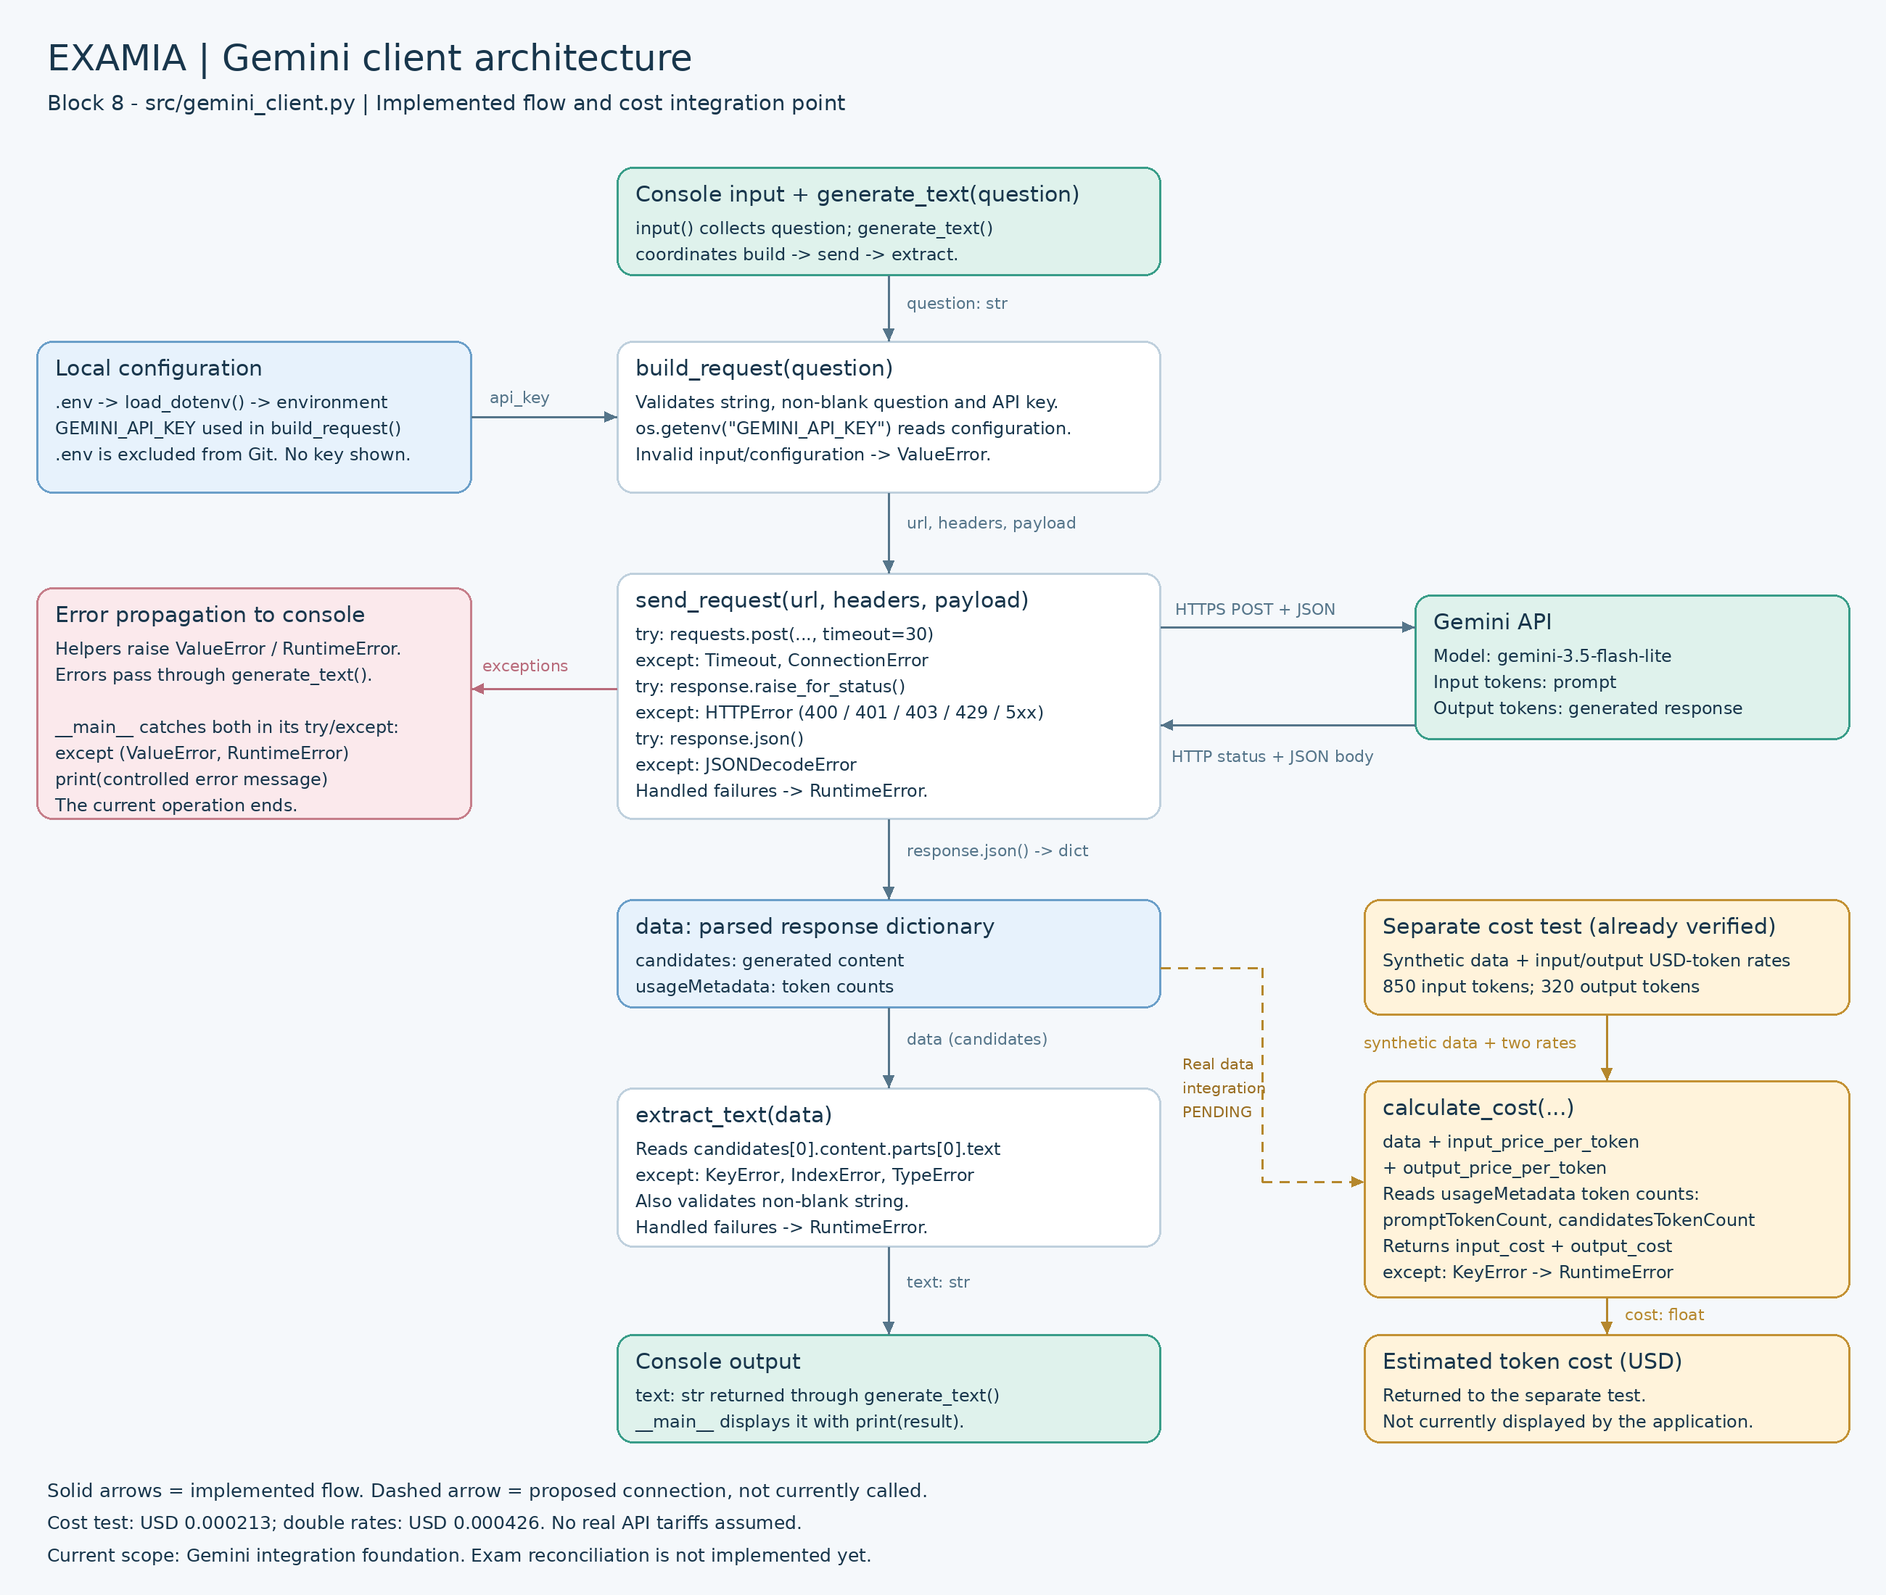
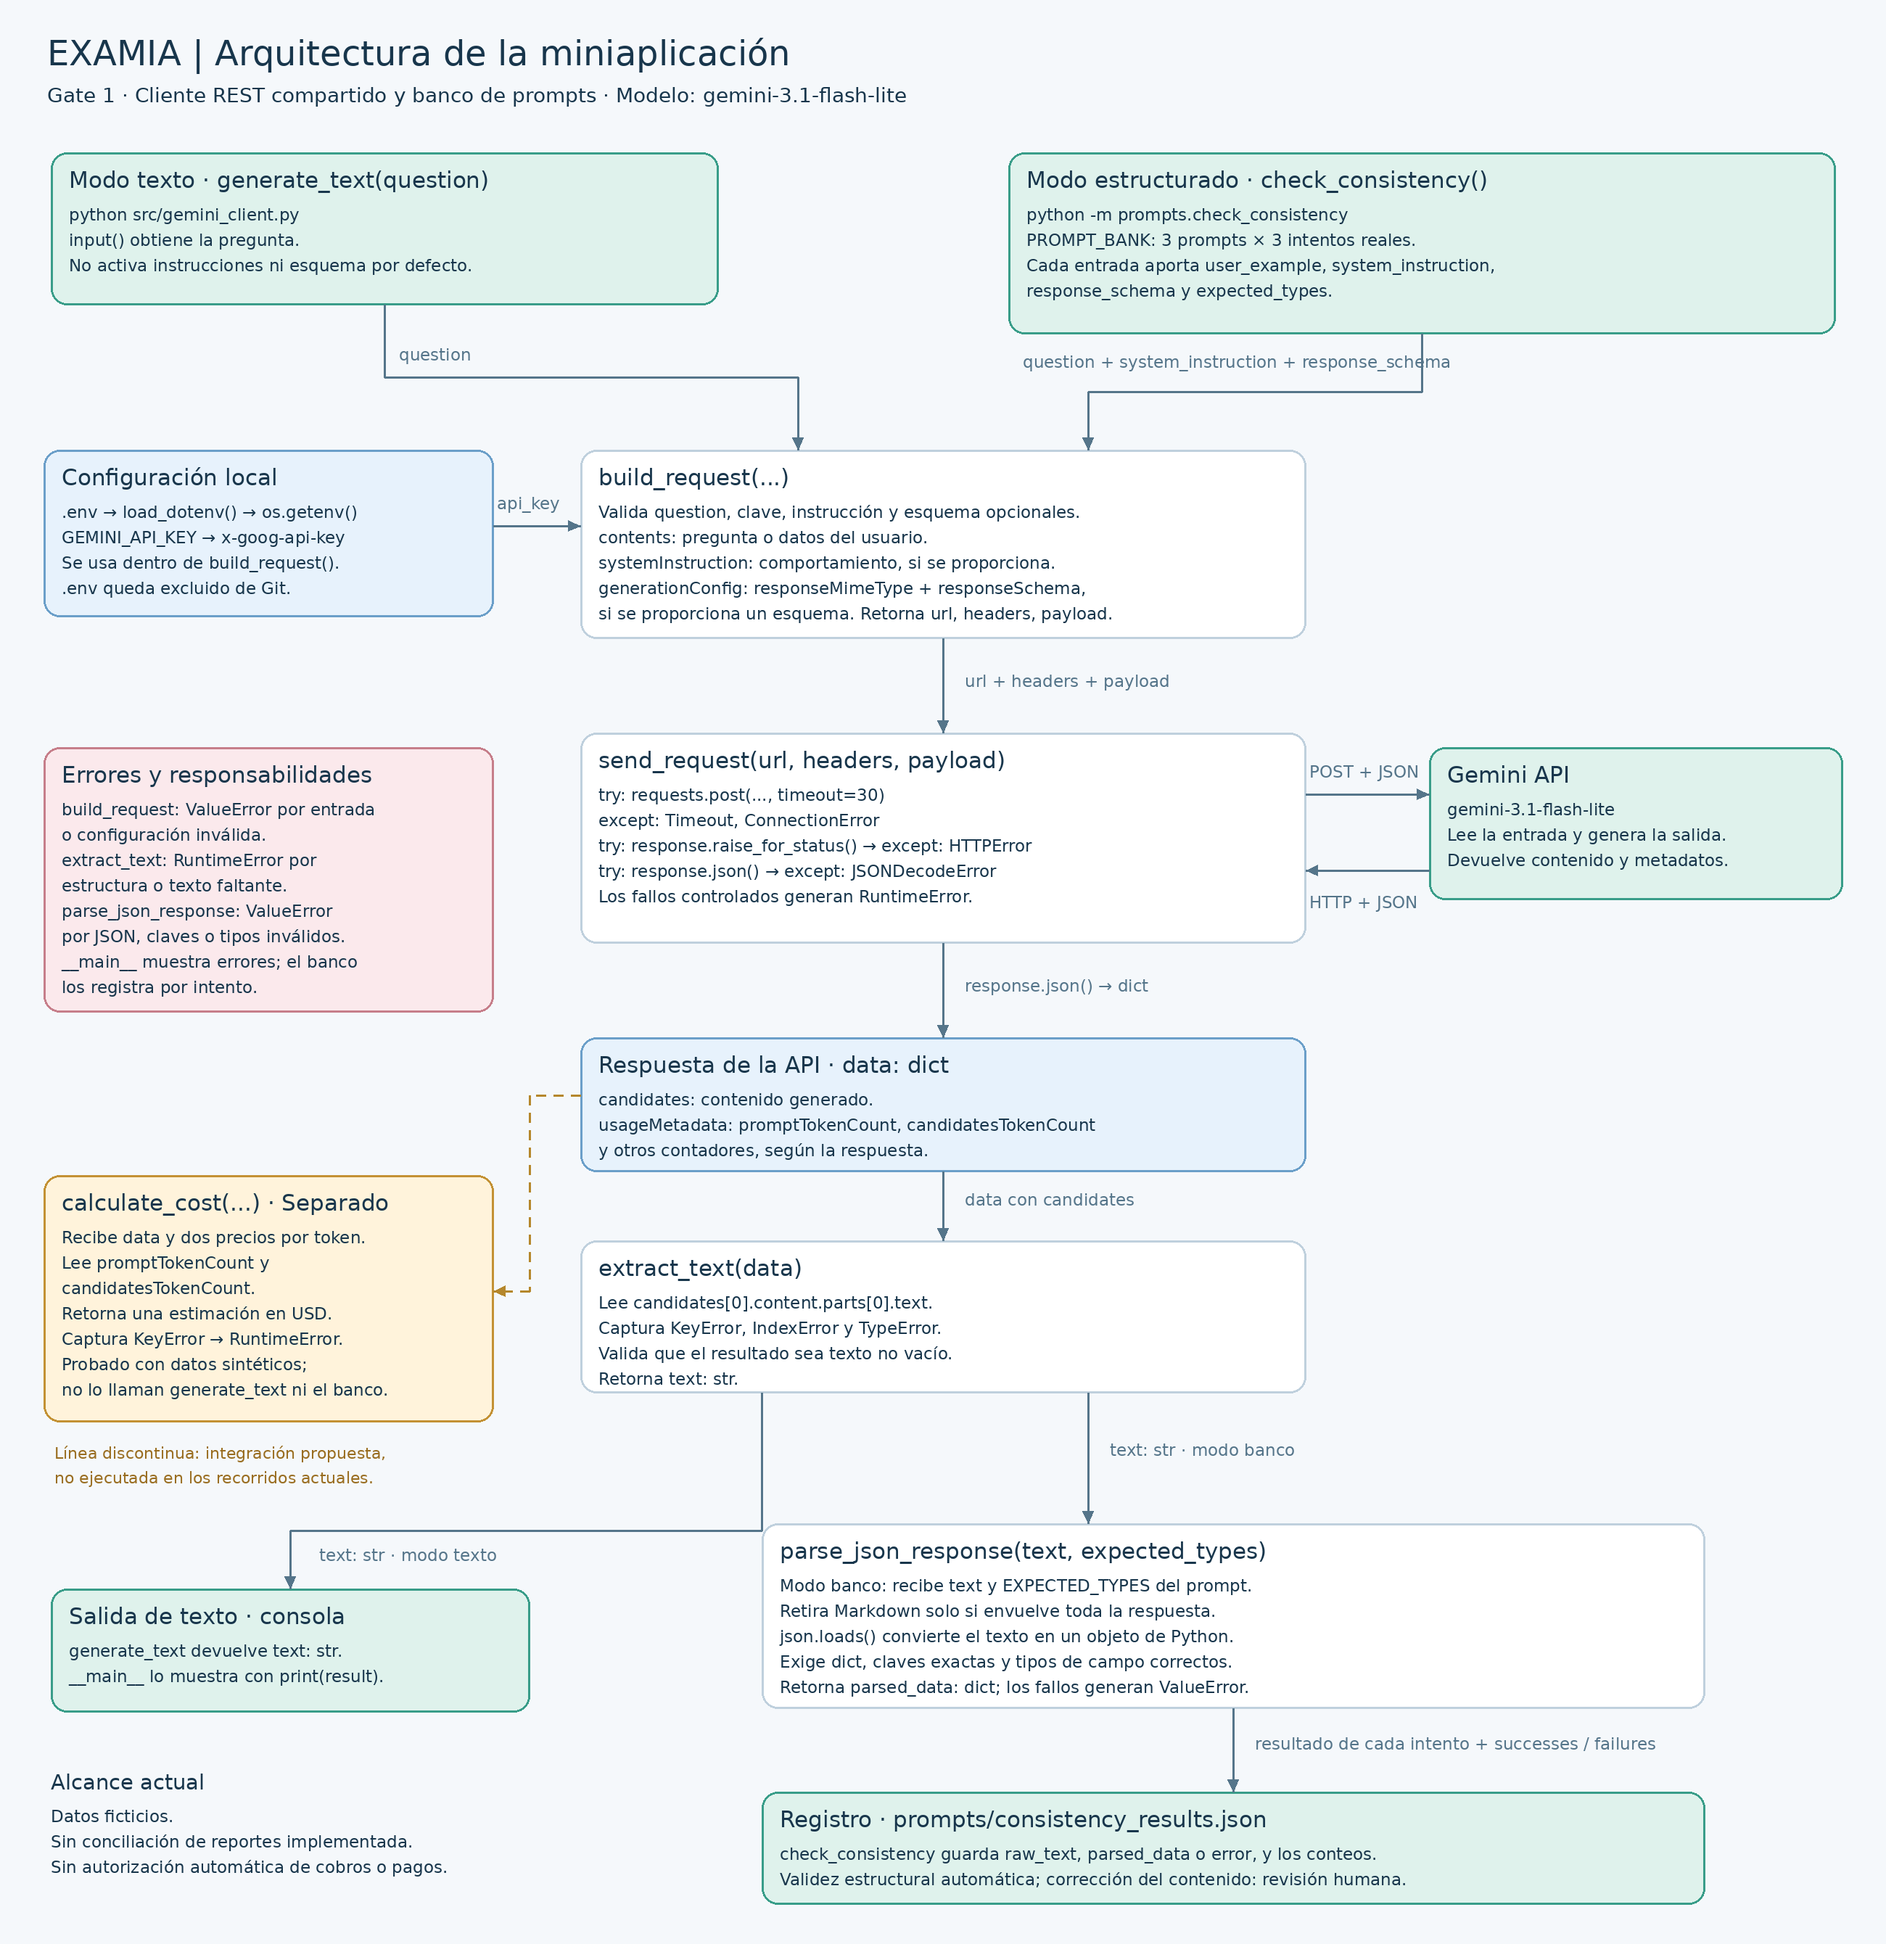
docs: prepare Gate 1 setup and documentation

diff --git a/README.md b/README.md
@@ -21,21 +21,29 @@ Desarrollar una herramienta en Python que apoye la conciliación mensual
 de exámenes y utilice IA generativa para explicar los resultados y preparar
 resúmenes para revisión humana.
 
-## Alcance previsto
+## Alcance actual — Gate 1
 
-- Leer y validar reportes descargados de Examia.
-- Identificar exámenes repetidos y datos incompletos.
-- Comparar registros entre períodos.
-- Aplicar reglas de cobro y pago previamente confirmadas.
-- Generar un resumen de resultados y casos que requieren revisión.
+Esta versión implementa la base técnica de integración con Gemini:
 
-El desarrollo será progresivo, de acuerdo con las actividades y los gates
-del programa.
+- Cliente de la API REST con funciones separadas.
+- Validación de entradas y configuración.
+- Manejo de errores de conexión, tiempo de espera, HTTP y formato JSON.
+- Extracción del texto generado.
+- Instrucciones de sistema separadas del contenido del usuario.
+- Solicitud de salida JSON mediante un esquema.
+- Interpretación y validación de claves y tipos de la respuesta generada.
+- Banco de tres prompts con ejemplos ficticios de Examia.
+- Script de consistencia y registro de sus resultados.
+- Función de estimación de costo por tokens, probada por separado.
+- Comparación de modelos y decisión de arquitectura documentada.
+
+La lectura de reportes, la conciliación automática y el cálculo de cobros
+y pagos todavía no están implementados.
 
 ## Reglas de negocio iniciales
 
 - El período mensual comprende desde el día 1 hasta el último día del mes.
-- El criterio acordado para cobro a centros y pago médico es la firma del examen;
+- La firma del examen es requisito para cobro a centros y pago médico;
   no se requiere esperar su liberación.
 - La fecha que determinará la imputación mensual está pendiente de confirmación.
 - El tratamiento de los exámenes rechazados está pendiente de definición.
@@ -43,56 +51,215 @@ del programa.
 
 ## Uso de inteligencia artificial
 
-Python realizará las validaciones y los cálculos mediante reglas explícitas.
+La IA apoya la explicación de hallazgos y la elaboración de resúmenes.
 
-La IA generativa apoyará la explicación de hallazgos y la elaboración de
-resúmenes. La aprobación de cobros y pagos corresponderá a una persona.
+Las validaciones y los cálculos financieros se implementarán en Python
+mediante reglas explícitas previamente confirmadas.
+La aprobación de cobros y pagos corresponderá a una persona.
+
+## Requisitos
+
+- Git instalado.
+- Python 3.14 utilizado durante el desarrollo en Windows.
+- Acceso a internet.
+- Una clave propia de Gemini API con acceso y cuota para
+  `gemini-3.1-flash-lite`.
+
+Las dependencias también se instalaron sin conflictos en una comprobación
+adicional con Python 3.12 en Linux. Esa comprobación no sustituye el ensayo
+completo de instalación y ejecución en Windows.
+
+Las instrucciones siguientes corresponden a Windows con Git Bash.
+
+## Instalación
+
+### 1. Clonar el repositorio
+
+```bash
+git clone https://github.com/SusanaFa/IA-ACCENTURE-2026.git
+cd IA-ACCENTURE-2026
+```
+
+Si el repositorio es privado, se necesita acceso autorizado para clonarlo.
+
+### 2. Crear y activar el entorno virtual
+
+```bash
+py -m venv venv
+source venv/Scripts/activate
+```
+
+La terminal debería mostrar `(venv)`.
+
+Los comandos siguientes utilizan `python` dentro del entorno activado.
+
+### 3. Instalar las dependencias
+
+```bash
+python -m pip install -r requirements.txt
+python -m pip check
+```
+
+La segunda instrucción comprueba si existen conflictos entre dependencias.
+
+### 4. Configurar la credencial
+
+```bash
+cp .env.example .env
+```
+
+Abrir `.env` en un editor y reemplazar el valor de ejemplo de
+`GEMINI_API_KEY` por una clave propia.
+
+El archivo debe quedar en la raíz del proyecto.
+No publicar la clave en código, capturas, registros ni commits.
+
+La variable necesaria para el funcionamiento actual es:
+
+```dotenv
+GEMINI_API_KEY=YOUR_API_KEY
+```
+
+## Ejecución del cliente de texto
+
+Desde la raíz del repositorio, con el entorno virtual activo:
+
+```bash
+python src/gemini_client.py
+```
+
+El programa solicita una pregunta. Para comprobar la conexión se puede escribir:
+
+```text
+Responde únicamente: Conexión con Gemini exitosa.
+```
+
+La ejecución correcta muestra una respuesta real del modelo.
+El texto puede variar.
+
+Este modo devuelve texto libre; no activa por defecto las instrucciones
+ni el esquema del banco de prompts.
+
+## Ejecución del banco de prompts
+
+Desde la raíz del repositorio:
+
+```bash
+python -m prompts.check_consistency
+```
+
+El script ejecuta tres repeticiones de cada uno de estos prompts:
+
+- `monthly_assignment`: imputación mensual sin regla confirmada.
+- `status_change_review`: seguimiento de un examen entre períodos.
+- `rejected_exam_review`: tratamiento pendiente de exámenes rechazados.
+
+Cada petición utiliza instrucciones de sistema y un esquema de salida.
+La respuesta debe contener exactamente:
+
+| Campo             | Tipo    | Contenido                      |
+| ----------------- | ------- | ------------------------------ |
+| `summary`         | string  | Resumen en español.            |
+| `requires_review` | boolean | Indicación de revisión humana. |
+
+El script verifica que la respuesta sea un objeto JSON y comprueba sus
+claves y tipos.
+
+Los resultados se guardan en:
+
+```text
+prompts/consistency_results.json
+```
+
+Cada ejecución realiza nueve peticiones reales y reemplaza el registro
+anterior. Requiere acceso y cuota disponibles.
+
+El resultado guardado del 21 de noviembre de 2026 fue:
+
+| Prompt                 | Respuestas válidas | Fallidas |
+| ---------------------- | -----------------: | -------: |
+| `monthly_assignment`   |                3/3 |        0 |
+| `status_change_review` |                3/3 |        0 |
+| `rejected_exam_review` |                3/3 |        0 |
+
+Estos resultados demuestran consistencia estructural en esa corrida.
+La corrección del contenido requiere revisión adicional; el script no
+comprueba automáticamente las reglas de negocio ni el máximo de palabras.
+
+## Modelo seleccionado
+
+Proveedor: Google Gemini API.
+
+Modelo predeterminado: `gemini-3.1-flash-lite`.
+
+Se comparó con `gemini-3.5-flash-lite` mediante mediciones de latencia
+y preguntas ficticias representativas de Examia.
+
+La elección, los precios consultados, los resultados y las limitaciones
+están en la [decisión de arquitectura](docs/architecture_decision.md).
+
+## Estimación de costo
+
+`calculate_cost` utiliza `promptTokenCount` y `candidatesTokenCount`
+de `usageMetadata`, junto con precios por token proporcionados como parámetros.
+
+Actualmente se prueba por separado y no se ejecuta dentro de `generate_text`.
+
+El cálculo no contempla todos los posibles componentes facturables,
+como tokens de razonamiento o tarifas de caché. No debe interpretarse
+como una factura ni como el cobro efectivo de una petición gratuita.
+
+## Organización del repositorio
+
+| Ruta                               | Propósito                                           |
+| ---------------------------------- | --------------------------------------------------- |
+| `src/gemini_client.py`             | Preparación, envío y procesamiento de peticiones.   |
+| `src/list_models.py`               | Consulta del catálogo de modelos.                   |
+| `src/compare_models.py`            | Medición comparativa de latencia.                   |
+| `src/evaluate_models.py`           | Pruebas de calidad con casos ficticios.             |
+| `prompts/prompt_bank.py`           | Banco de instrucciones, ejemplos y esquemas.        |
+| `prompts/check_consistency.py`     | Ejecución y validación del banco.                   |
+| `prompts/consistency_results.json` | Registro de resultados obtenidos.                   |
+| `docs/architecture_decision.md`    | Comparación y elección del modelo.                  |
+| `docs/miniapp_architecture.png`    | Diagrama de arquitectura.                           |
+| `docs/evidencias/`                 | Capturas de las verificaciones realizadas.          |
+| `.env.example`                     | Plantilla de configuración sin credenciales reales. |
+| `requirements.txt`                 | Dependencias del entorno.                           |
+
+## Manejo de errores
+
+El cliente controla:
+
+- Preguntas vacías o de tipo incorrecto.
+- Clave ausente.
+- Instrucciones o esquemas con formato de entrada inválido.
+- Errores de conexión y tiempo de espera.
+- Respuestas HTTP de error, incluidos problemas de acceso y cuota.
+- Respuestas HTTP que no contienen JSON válido.
+- Campos o elementos faltantes al extraer el texto.
+- Texto generado que no puede interpretarse como un objeto JSON.
+- Claves faltantes, adicionales o con tipos incorrectos.
+
+Un mensaje de error controlado permite entender la falla, pero no cuenta
+como una petición exitosa para verificar el Gate 1.
 
 ## Datos y credenciales
 
-Durante el aprendizaje se utilizarán datos ficticios, identificados como tales.
+Los ejemplos utilizados son ficticios.
+No se incluyen reportes reales ni datos personales de pacientes.
 
-No se incluirán datos personales de pacientes, reportes reales ni credenciales
-en este repositorio. Las claves de API se configurarán mediante variables
-de entorno y quedarán excluidas del control de versiones.
+`.gitignore` excluye `.env`, los entornos virtuales y los archivos
+temporales de Python. `.env.example` contiene únicamente valores de ejemplo.
 
-## Estado actual
+## Verificación pendiente para Gate 1
 
-Unidad U1.3: cliente de Gemini implementado en `src/gemini_client.py`.
+Antes de entregar falta realizar y registrar el ensayo completo:
 
-El módulo separa la preparación de la petición, el envío y la extracción
-del texto. Valida la entrada y la configuración de la clave, y gestiona
-errores de conexión, tiempo de espera, estado HTTP, JSON inválido y
-datos faltantes.
+1. Clonar el repositorio actualizado en una carpeta nueva.
+2. Crear un entorno virtual nuevo.
+3. Instalar únicamente las dependencias declaradas.
+4. Configurar una clave propia mediante `.env`.
+5. Ejecutar siguiendo este README y obtener una respuesta real.
+6. Confirmar que las credenciales y el entorno virtual no estén versionados.
 
-Verificación realizada:
-
-- Clave inválida, pregunta vacía y respuesta real exitosa.
-- Simulación de errores de conexión, JSON inválido y datos faltantes.
-
-Las evidencias están en `docs/evidencias/`.
-
-La conciliación de reportes de Examia sigue pendiente de implementación.
-
-## Instalación y ejecución
-
-Desde Git Bash, en la raíz del repositorio:
-
-1. Crear el entorno: `py -m venv venv`
-2. Activarlo: `source venv/Scripts/activate`
-3. Instalar dependencias: `python -m pip install -r requirements.txt`
-4. Copiar la configuración: `cp .env.example .env`
-5. Completar `GEMINI_API_KEY` en `.env` con una clave propia.
-6. Ejecutar: `python src/gemini_client.py`
-
-Proveedor utilizado: Google Gemini.
-Modelo probado: `gemini-3.5-flash-lite`.
-
-## Tecnologías previstas
-
-- Python.
-- Git y GitHub.
-- API de un proveedor de IA generativa, por seleccionar.
-
-Las dependencias y las instrucciones de instalación se documentarán
-cuando se configure el entorno de desarrollo.
+El resultado del ensayo se documentará después de ejecutarlo.
